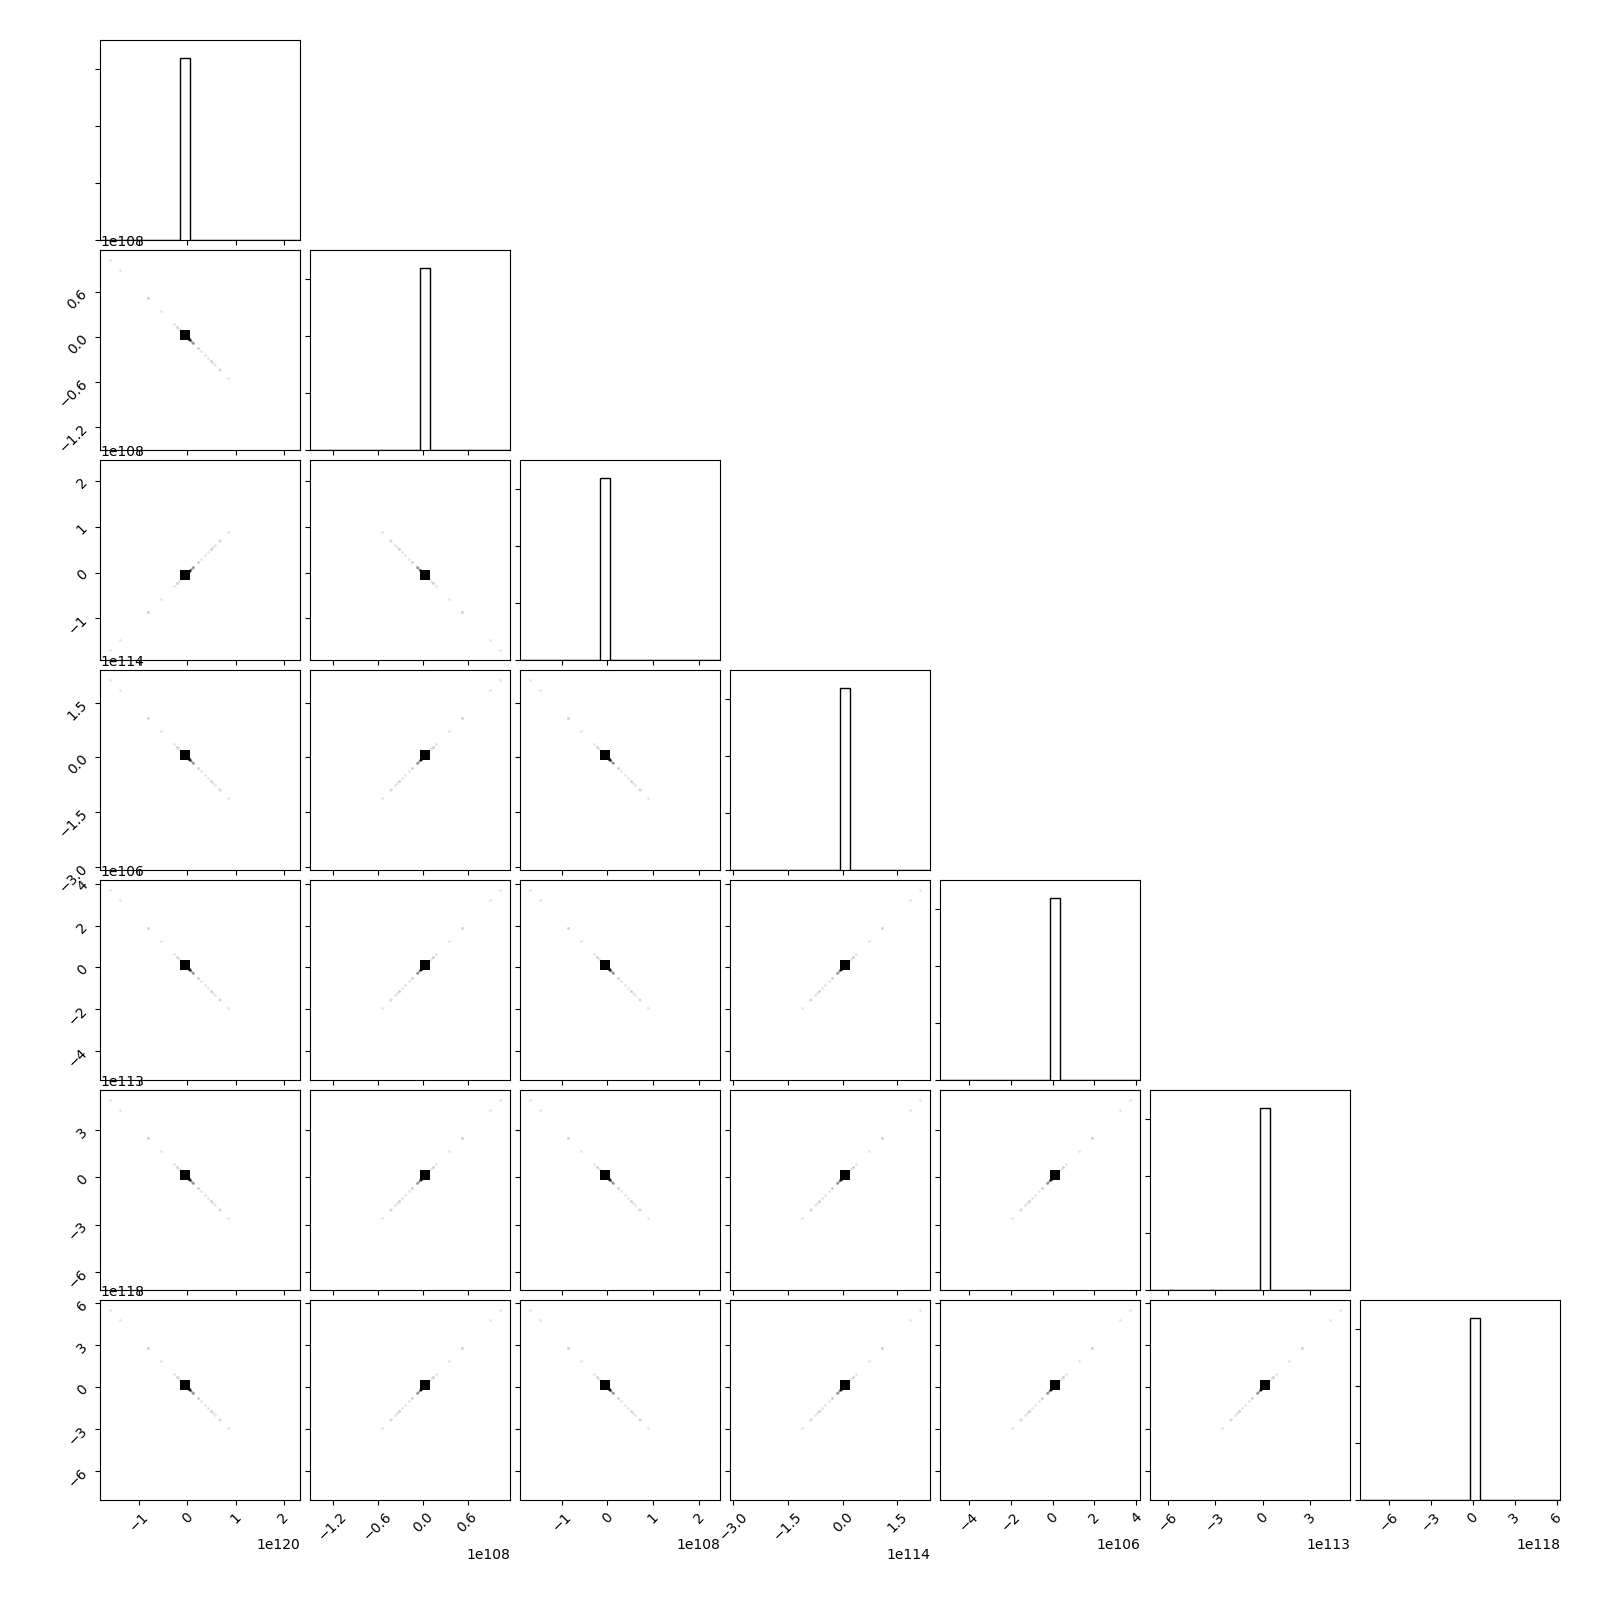
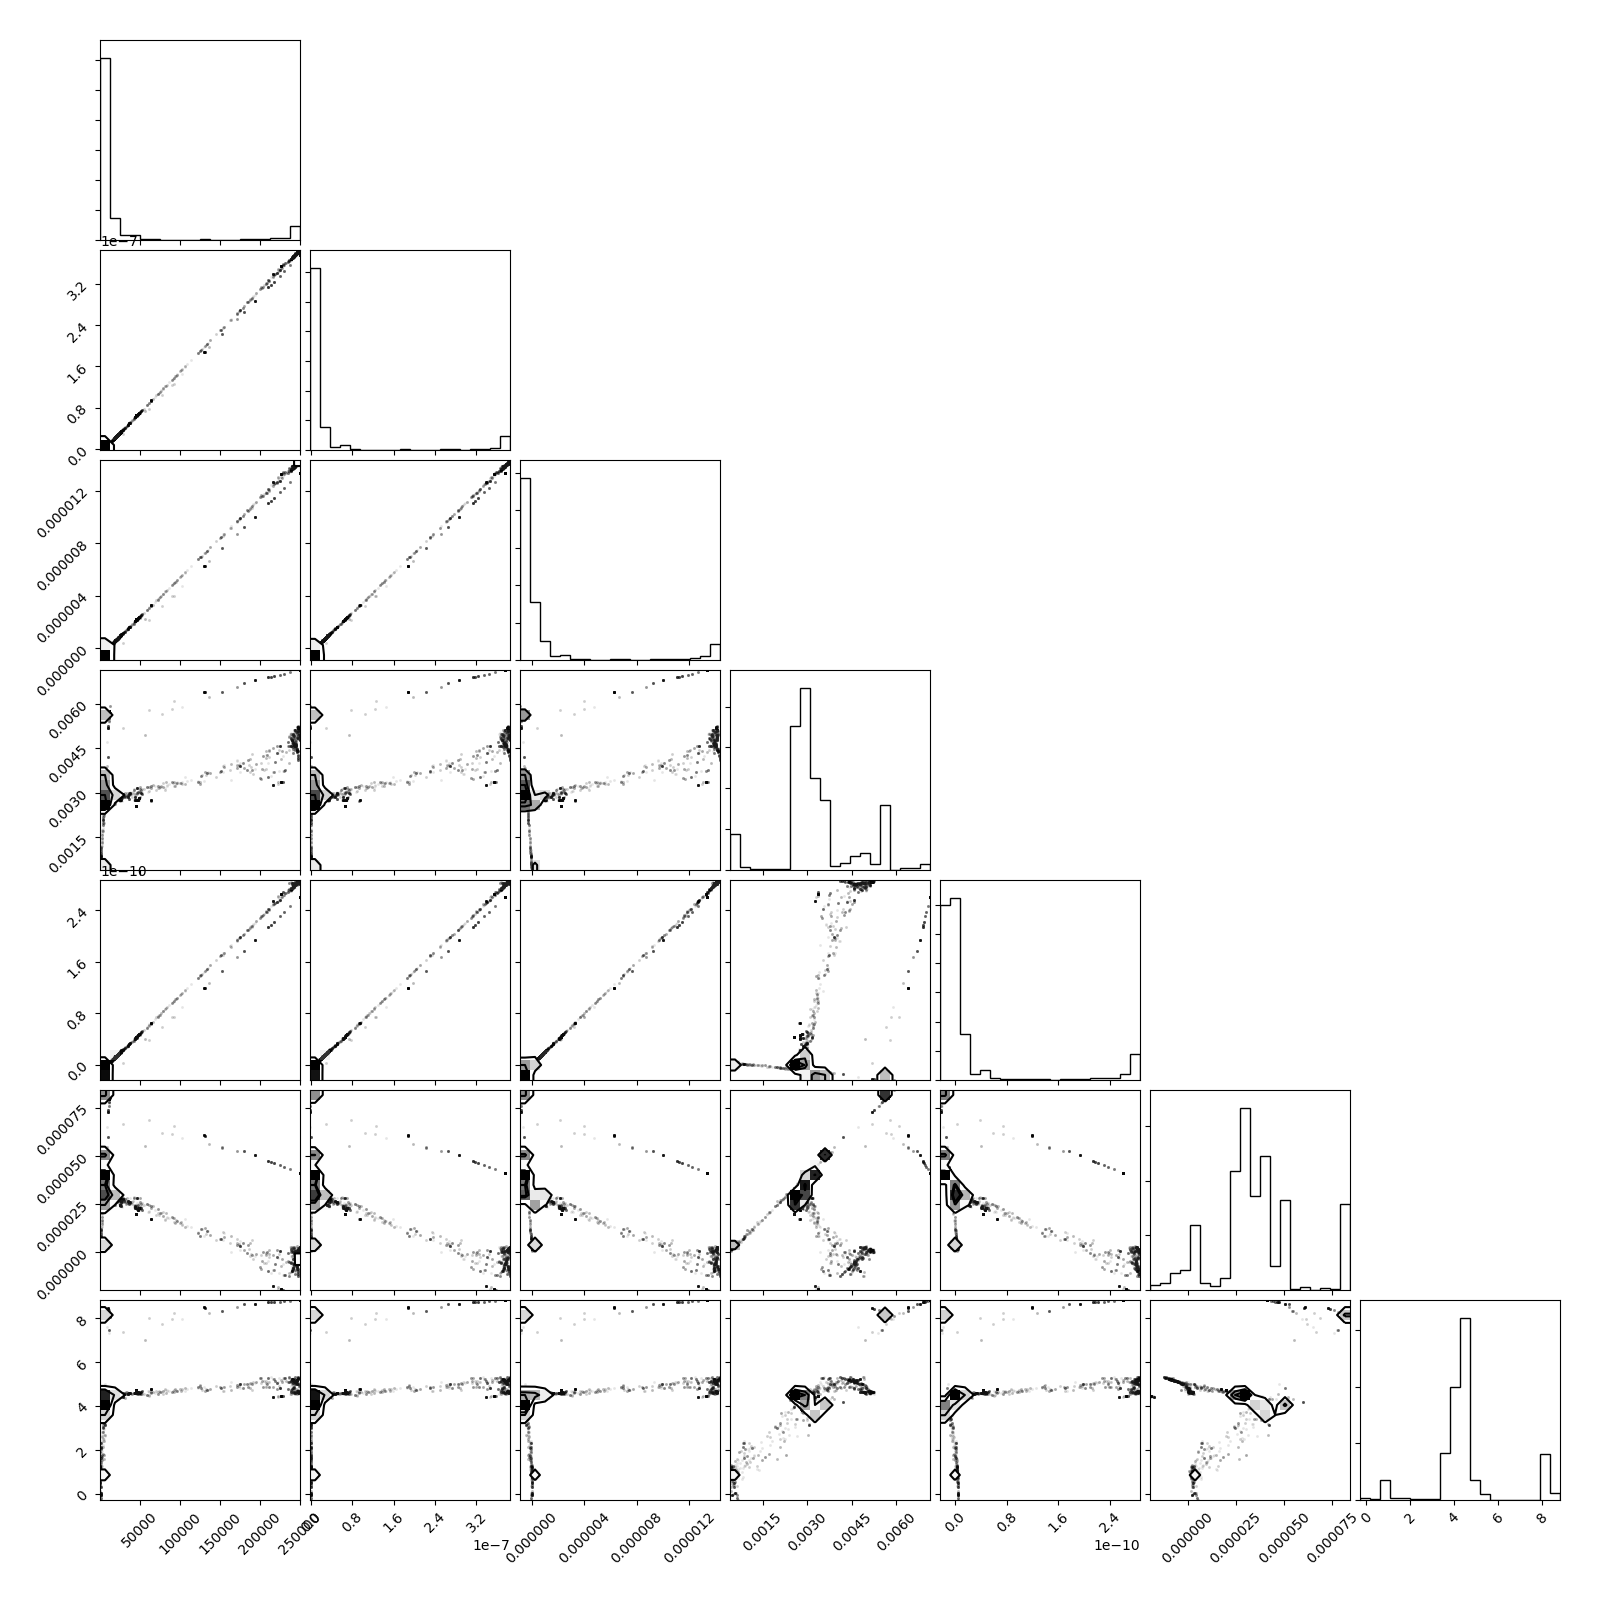
Swapped the MCMC over to using the trough object.

diff --git a/MCMC_test.py b/MCMC_test.py
@@ -3,9 +3,10 @@ import scipy.optimize as op
 import scipy.interpolate as interp
 import scipy.integrate as integ
 import matplotlib.pyplot as plt
-import os, sys
-sys.path.insert(0, "./src/")
-import C_trough_model as trough_model
+#import os, sys
+#sys.path.insert(0, "./src/")
+#import C_trough_model as trough_model
+import trough_model
 import emcee #used for MCMC analyses
 
 #Read in the data
@@ -34,13 +35,16 @@ ts = np.linspace(min(times), times[-10], len(times)*100)
 #Define the initial positions
 xi, zi = 0, 0
 
+#Make a trough object
+trough = trough_model.trough_object()
+
 #Define the log-posterior probability of our model given the data
 #Mathematically this looks like: lnPost = lnPrior + lnLike
 def lnprior(params):
     """Log of the prior on the parameters.
     """
     model_var = params[0]
-    if model_var < 0 or model_var > 500**2: return -np.inf #variance can't be negative, or greater than 10 pixels in each x direction.
+    if model_var < 0 or model_var > 500: return -np.inf #variance can't be negative, or greater than 10 pixels in each x direction.
     return 0
 
 def lnlike(params):
@@ -55,7 +59,10 @@ def lnlike(params):
 
     #Calculate the trough path
     in_params = params[1:]
-    x_out, z_out = trough_model.get_trough_path(xi, zi, ts, in_params, times, ins, lags, R)
+    #x_out, z_out = trough_model.get_trough_path(xi, zi, ts, in_params, times, ins, lags, R)
+
+    trough.set_parameters(in_params)
+    x_out, z_out = trough.get_trough_path()
     
     #Compute the log likelihood, which is just -0.5*chi2-0.5det(Cov) and return the sum
     horizontal_comparison = True
@@ -95,7 +102,7 @@ print "Starting best fit"
 result = op.minimize(nll, guess, tol=1e-3)
 print "\tbest fit complete with ",result['success']
 print result
-exit()
+#exit()
 
 #Set up the walkers in the MCMC
 nwalkers = len(guess)*2+2
